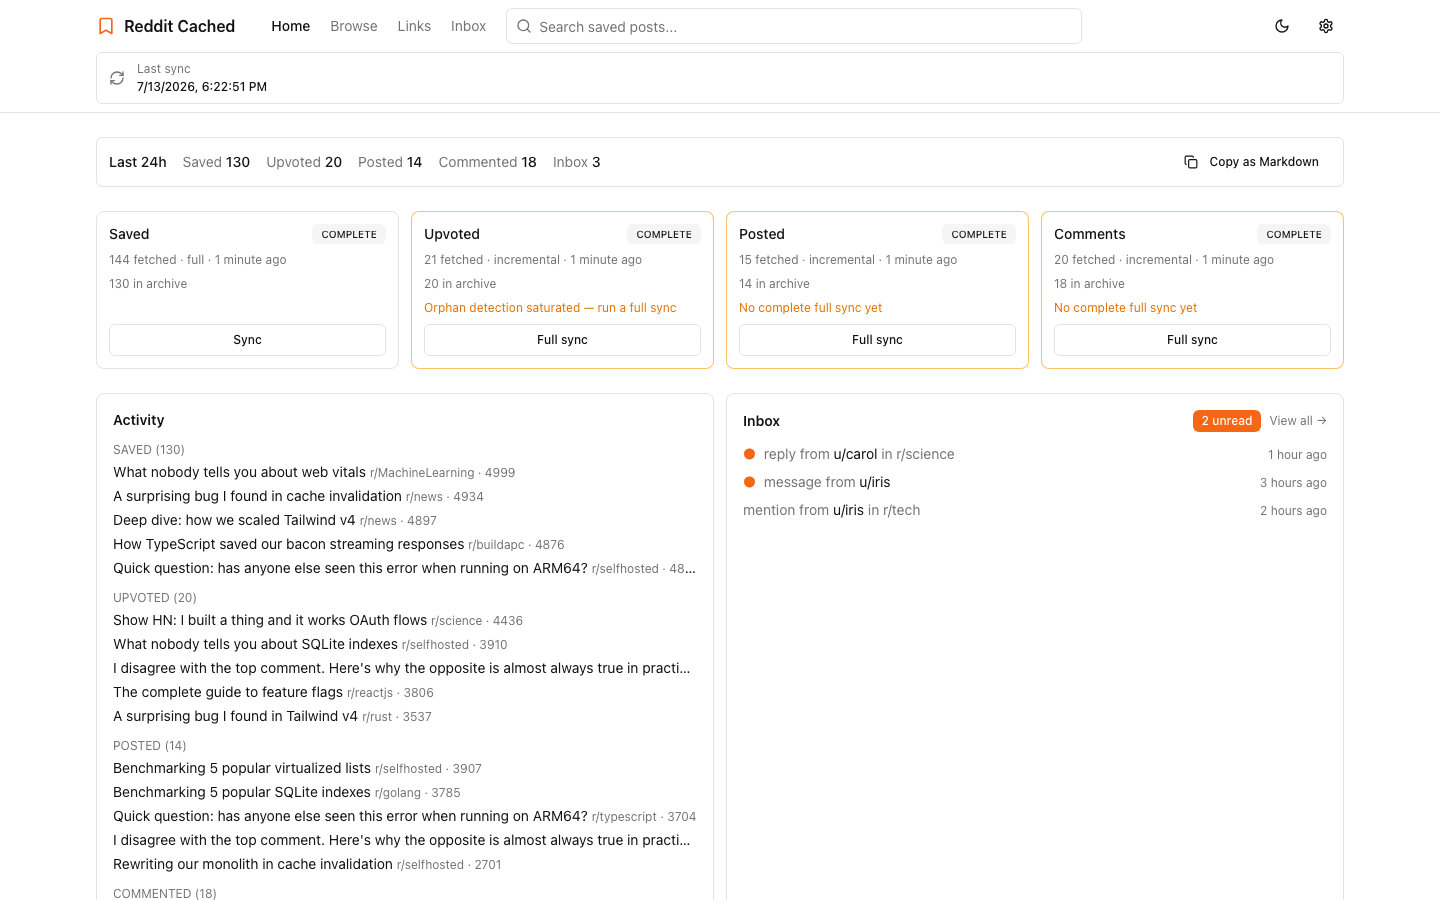
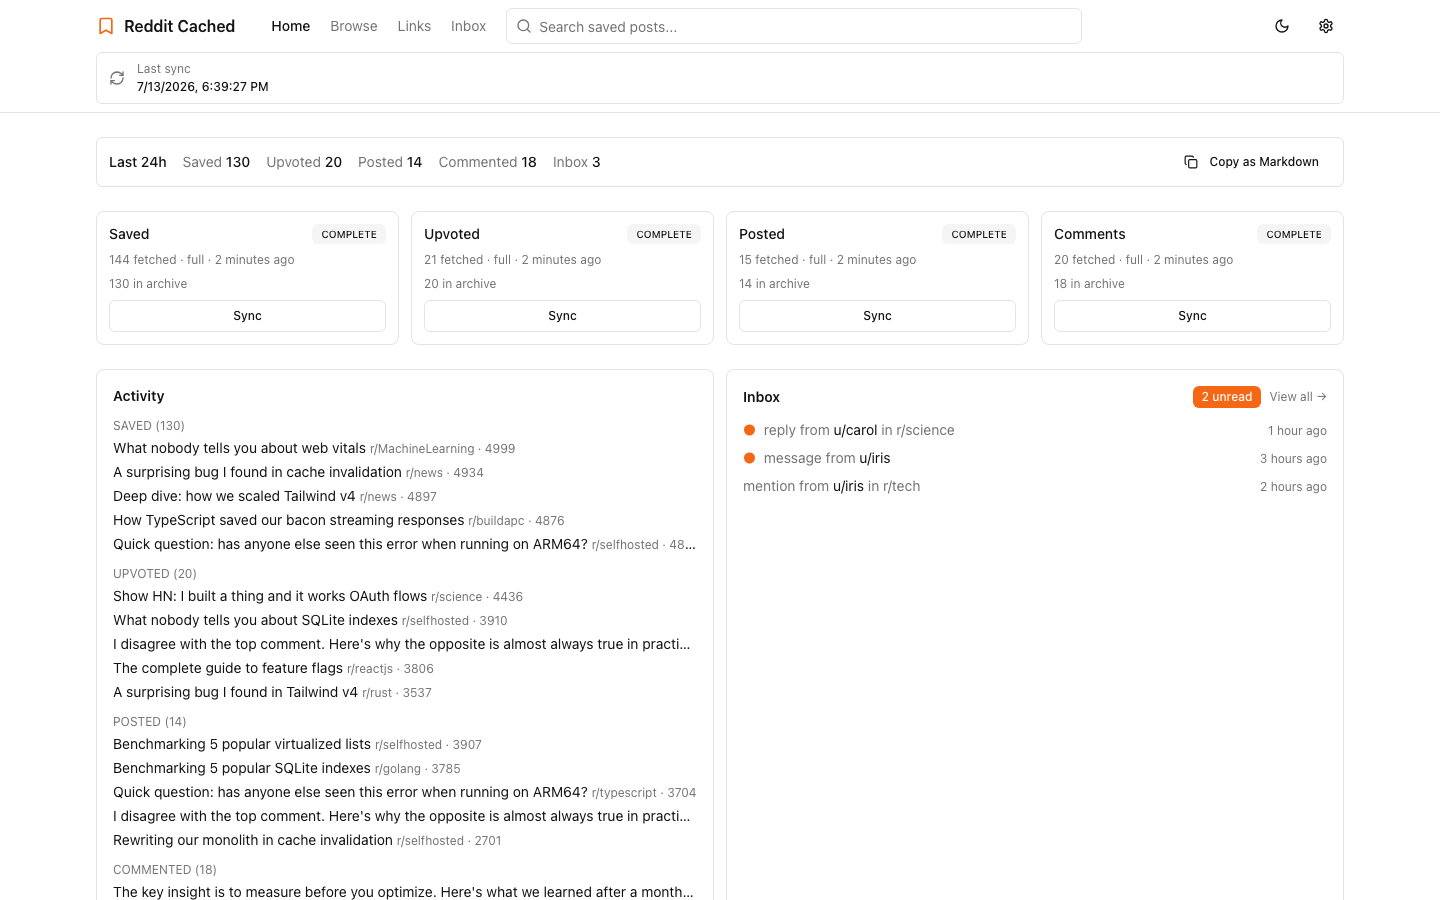
Address README review findings: clone URL, db override docs, screenshots
- Fix the Install & setup clone line to the real repo URL and directory
  (git clone https://github.com/aurokin/reddit_cached && cd reddit_cached).
- Correct the database-override docs: REDDIT_CACHED_DB is honored by the
  web app only; the CLI overrides via --db <path>.
- Retake the dashboard hero (light + dark) against the seeded TEST_MODE
  stack with complete unsaturated full-sync provenance for all four
  origins, so the front page shows the archive healthy (all cards
  COMPLETE, no warnings) instead of orange full-sync alerts.
- Retake the settings screenshot cropped to start at the Sync history
  heading, eliminating the sliced card bottoms and header ghosting from
  the mid-scroll capture.

Claude-Session: https://claude.ai/code/session_01WWFgthWMCcoDkTH9x9fxSb

diff --git a/README.md b/README.md
@@ -49,7 +49,7 @@ unsave.
 Requires [Bun](https://bun.sh).
 
 ```bash
-git clone <this-repo> && cd reddit_saved
+git clone https://github.com/aurokin/reddit_cached && cd reddit_cached
 bun install
 cd packages/web
 bun run build
@@ -82,9 +82,9 @@ cd packages/cli && bun run build   # emits dist/reddit-cached
 
 The database lives in the platform data directory — macOS:
 `~/Library/Application Support/reddit-cached/reddit-cached.db`, Linux (XDG):
-`~/.local/share/reddit-cached/reddit-cached.db`. Override with
-`REDDIT_CACHED_DB=<path>`. The web UI and CLI share the same database and auth
-files.
+`~/.local/share/reddit-cached/reddit-cached.db`. The web app honors
+`REDDIT_CACHED_DB=<path>`; the CLI takes `--db <path>`. By default the web UI
+and CLI share the same database and auth files.
 
 ## Scheduled syncs
 